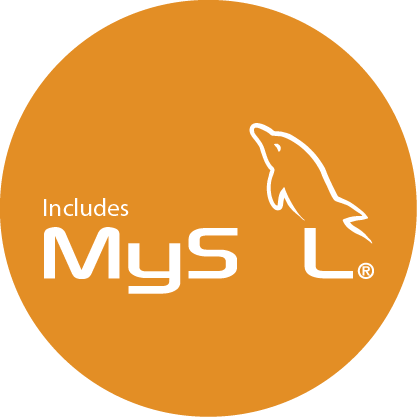
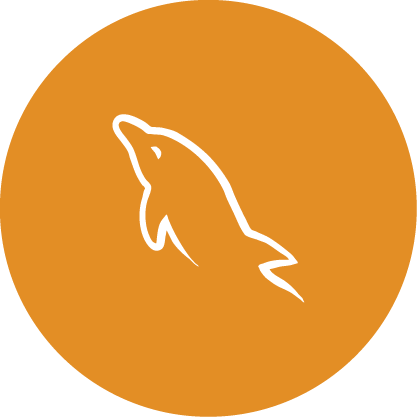
skills working / stylized - no animation

diff --git a/src/components/layout.css b/src/components/layout.css
@@ -557,6 +557,8 @@ margin-bottom: 50px;
   height: 200px;
   width: 200px;
   margin: 25px;
+  padding-top: 25px;
+
 }
 
 .skill-card-title {
@@ -569,16 +571,19 @@ margin-bottom: 50px;
   flex-direction: row;
   flex-wrap: wrap;
   justify-content: space-evenly;
-  width: 100%;
+  width: 95%;
   margin: 0 auto;
+  height: 600px;
+  align-content: center;
 }
 
 .skill-filter {
   list-style-type: none;
   display: flex;
   flex-direction: row;
-  margin: 0 auto;
-  width: 60%;
+  padding: 0px;
+  width: 100%;
+  justify-content: center;
 
 }
 
@@ -592,6 +597,12 @@ margin-bottom: 50px;
   width: 100%;
   color: inherit;
   
+}
+
+.skill-logo-container {
+  height: 150px;
+  width: 150px;
+  margin: 10px auto;
 }
 
 .skill-active {
@@ -623,11 +634,19 @@ width: 100%;
 text-align: center;
 }
 
+.skills-title-small {
+  font-size: 50px;
+  margin-top: -40px;
+  margin-bottom: 30px;
+  padding-top: 0px;
+  padding-bottom: 0px;
+  text-align: center;
+}
+
 .title-small {
   font-size: 50px;
   margin-top: 0px;
   margin-bottom: 0px;
-  padding-bottom: 0px;
 }
 
 .title-large {

diff --git a/src/components/mainPage/skills/skillDisplay.js b/src/components/mainPage/skills/skillDisplay.js
@@ -1,5 +1,6 @@
 import React, { Component } from 'react'
 import JSONData from '../../../data/content.json'
+import Image from '../../image'
 
 export default class SkillDisplay extends Component {
 
@@ -55,6 +56,9 @@ export default class SkillDisplay extends Component {
             {activeOption.Children.map(data => {
       return(
         <div className='skill-card'>
+          <div className="skill-logo-container">
+            <Image filename={data.LogoUrl}/>
+          </div>
           <h6 className='skill-card-title'>{data.Title}</h6>
         </div>
       )

diff --git a/src/components/mainPage/skills.js b/src/components/mainPage/skills.js
@@ -9,7 +9,7 @@ export default class Skills extends Component {
     return (
       <div id="skills">
         <h5 className='title-large skills-title'>Skills</h5>
-        <h5 className='title-small skills-title'>To pay the bills</h5>
+        <h5 className='skills-title-small'>To pay the bills</h5>
     
           <SkillDisplay/>
 
